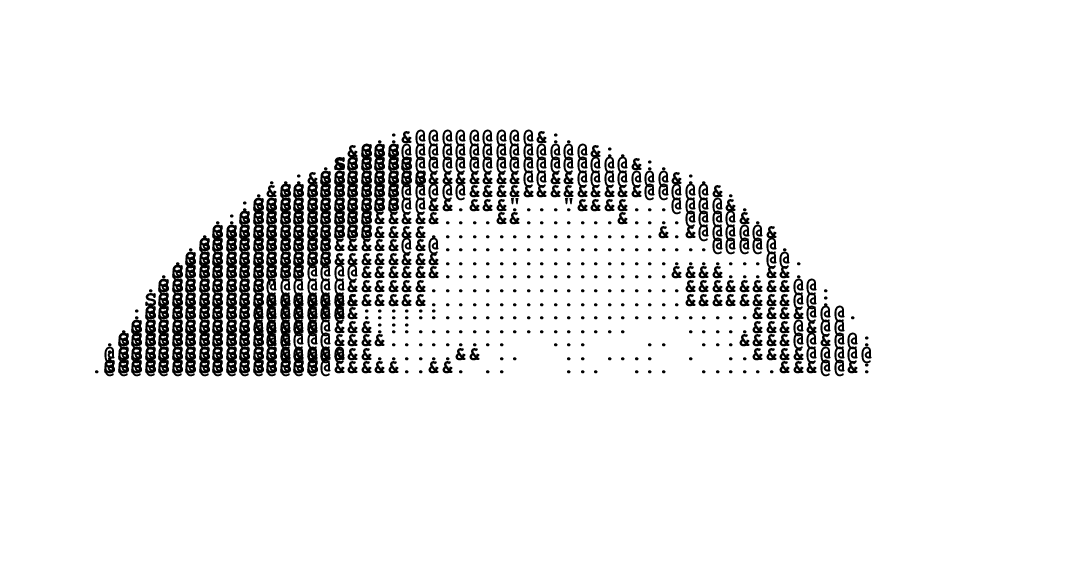
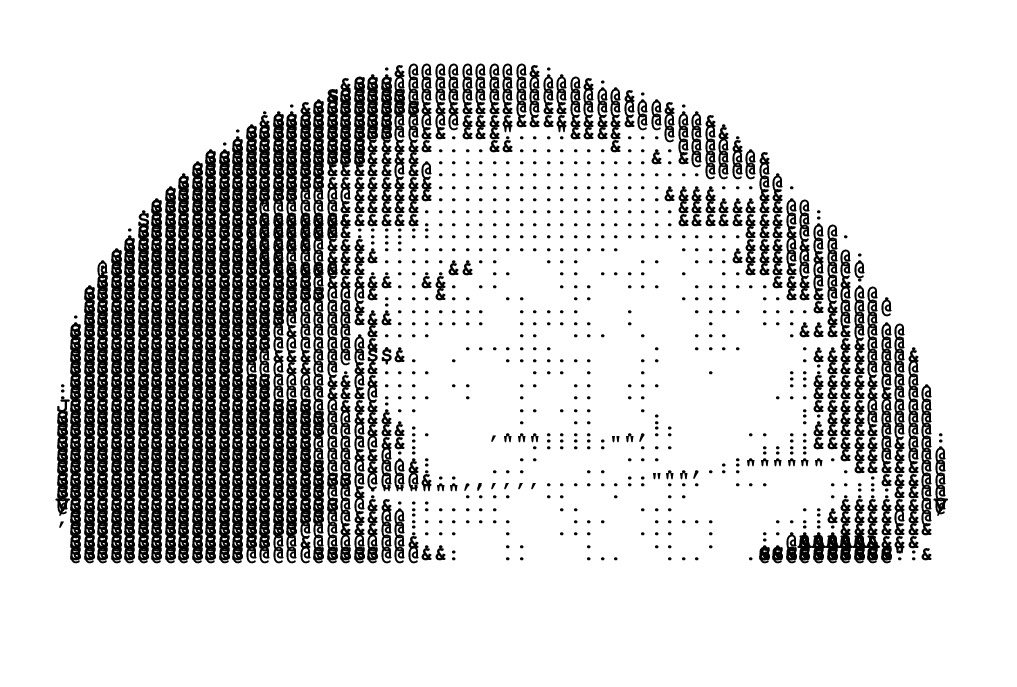
... more Kojak ascii art.

Changed region(s): [[0.0305, 0.0936, 0.9449, 0.8423], [0.6096, 0.6863, 0.7011, 0.7175]]

diff --git a/README.md b/README.md
@@ -73,16 +73,19 @@ at the bottom like this:
 
 ![Box Label][box-label-img]
 
-### Ascii Graphics
+### Ascii Graphics from "Bob Neill's Book of Typewriter Art"
 
-Apparently, there were little Ascii graphics in the typewriter times as
-for instance distributed in
+There were little Ascii graphics in the typewriter times. I got interested
+when seeing
 <a href="https://pbs.twimg.com/media/DrgVJYfXQAAgZ2f.jpg">this image
 <img src="https://pbs.twimg.com/media/DrgVJYfXQAAgZ2f.jpg" width="128"></a>
 
-This program parses such instructions and prints them out. Alas, the
-instructions on that image are incomplete, there are probably two more
-pages of it:
+This program parses such instructions and prints them out.
+You've to find the book to fully type all the instructions. I only got to
+page 84-85, while there are pages 86..90 have yet to be typed in, so the
+following image is incomplete.
+(Gladly accepting pull requests... Just edit the PostScript file while
+having it open in okular or similar that reloads whenever you save.)
 
 ![ASCII graphics][ascii-graphics]
 
